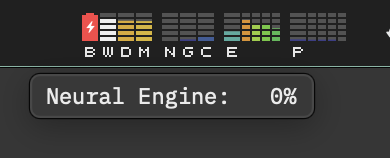
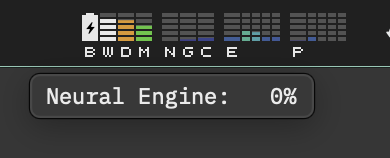
Update app pictures

diff --git a/devtopbars/index.html b/devtopbars/index.html
@@ -158,7 +158,7 @@
     <p class="section-sub">A real capture of the menu bar. After cpuTopBars' own bars come the plan's two limits, lettered 5 and 7, then one bar for each session.</p>
 
     <figure class="shot">
-      <img src="media/menubar-limits.png" width="410" height="64" alt="The devTopBars graph in the menu bar: battery, Wi-Fi, disk and memory bars lettered B W D M; Neural Engine, GPU and CPU lettered N G C; efficiency and performance core bars lettered E and P; then two limits bars lettered 5 and 7; then the session bars, each colored by its state">
+      <img src="media/menubar-limits.png" width="390" height="64" alt="The devTopBars graph in the menu bar: battery, Wi-Fi, disk and memory bars lettered B W D M; Neural Engine, GPU and CPU lettered N G C; efficiency and performance core bars lettered E and P; then two limits bars lettered 5 and 7; then the session bars, each colored by its state">
       <figcaption>The menu bar, with the limits and session bars at the right</figcaption>
     </figure>
 
@@ -175,18 +175,18 @@
     <div class="section-label">Shared <span class="accent">//</span> with cpuTopBars</div>
     <p class="section-sub">Rest the pointer on a bar for a second and its reading appears below the menu bar, as in cpuTopBars. Captured in cpuTopBars built from source.</p>
     <figure class="shot">
-      <img src="../cputopbars/media/settings-readings-processes2.png" width="1540" height="628" alt="Three panels side by side, captured in cpuTopBars built from source: cpuTopBars Settings with a live demo of the graph, refresh rate, number of processes and switches for each group of bars; a readings panel with uptime, battery, Wi-Fi, disk, memory, Neural Engine, GPU and CPU; and the menu listing the top processes by CPU with, for your own processes, their memory, then Activity Monitor, Freeze, Settings, How to Read the Menu Bar, Support Team Fox and About" loading="lazy">
+      <img src="../cputopbars/media/settings-readings-processes2.png" width="1792" height="768" alt="Three panels side by side: devTopBars Settings with a live demo of the graph, refresh rate, number of processes, switches for each group of bars and the usage bars' settings; a readings panel with uptime, battery, Wi-Fi, disk, memory, Neural Engine, GPU and CPU, then the AI limits and the AI sessions; and the menu listing your top processes by CPU with their memory, then Activity Monitor, Freeze, Settings, How to Read the Menu Bar and About, then the LAN IP (blacked out), WAN IP and VPN IP rows" loading="lazy">
       <figcaption>Settings, the readings panel and the process menu, as built from source</figcaption>
     </figure>
     <p class="section-sub" style="margin:-4px auto 34px;font-size:13.5px;">devTopBars works like cpuTopBars from the App Store, not like this build: its menu lists your own processes and counts the others in one row, the GPU shows its use without watts, and the Neural Engine shows as on or off. Its menu also adds the LAN, WAN and VPN rows.</p>
     <div class="hovers">
-      <figure class="hover"><img src="../cputopbars/media/hover-battery.png" width="258" height="79" alt="Battery label: charge and whether it is charging" loading="lazy"><figcaption>Battery</figcaption></figure>
+      <figure class="hover"><img src="../cputopbars/media/hover-battery.png" width="250" height="107" alt="Battery label: charge and whether it is charging" loading="lazy"><figcaption>Battery</figcaption></figure>
       <figure class="hover"><img src="../cputopbars/media/hover-wifi.png" width="274" height="191" alt="Wi-Fi label: signal, then IP address, router and MAC address (blacked out), security, channel, noise, transmit rate and PHY mode" loading="lazy"><figcaption>Wi-Fi</figcaption></figure>
-      <figure class="hover"><img src="../cputopbars/media/hover-disk.png" width="370" height="79" alt="Disk label: startup volume use with free and used space" loading="lazy"><figcaption>Disk</figcaption></figure>
-      <figure class="hover"><img src="../cputopbars/media/hover-memory.png" width="502" height="79" alt="Memory label: memory in use with free, used and swapped memory" loading="lazy"><figcaption>Memory</figcaption></figure>
-      <figure class="hover"><img src="../cputopbars/media/hover-gpu.png" width="175" height="79" alt="GPU label: the GPU's use" loading="lazy"><figcaption>GPU</figcaption></figure>
-      <figure class="hover"><img src="../cputopbars/media/hover-cpu.png" width="436" height="79" alt="CPU label: overall use with efficiency and performance cores' use" loading="lazy"><figcaption>CPU</figcaption></figure>
-      <figure class="hover"><img src="../cputopbars/media/hover-e-cores.png" width="204" height="135" alt="Efficiency cores label: each core's load" loading="lazy"><figcaption>Efficiency cores</figcaption></figure>
+      <figure class="hover"><img src="../cputopbars/media/hover-disk.png" width="222" height="121" alt="Disk label: startup volume use with free and used space" loading="lazy"><figcaption>Disk</figcaption></figure>
+      <figure class="hover"><img src="../cputopbars/media/hover-memory.png" width="220" height="135" alt="Memory label: memory in use with free, used and swapped memory" loading="lazy"><figcaption>Memory</figcaption></figure>
+      <figure class="hover"><img src="../cputopbars/media/hover-gpu.png" width="175" height="93" alt="GPU label: the GPU's use" loading="lazy"><figcaption>GPU</figcaption></figure>
+      <figure class="hover"><img src="../cputopbars/media/hover-cpu.png" width="208" height="107" alt="CPU label: overall use with efficiency and performance cores' use" loading="lazy"><figcaption>CPU</figcaption></figure>
+      <figure class="hover"><img src="../cputopbars/media/hover-e-cores.png" width="207" height="135" alt="Efficiency cores label: each core's load" loading="lazy"><figcaption>Efficiency cores</figcaption></figure>
       <figure class="hover"><img src="../cputopbars/media/hover-p-cores.png" width="240" height="135" alt="Performance cores label: each core's load" loading="lazy"><figcaption>Performance cores</figcaption></figure>
     </div>
   </section>

diff --git a/cputopbars/index.html b/cputopbars/index.html
@@ -155,12 +155,12 @@
     <p class="section-sub">Real captures on a dark menu bar. Each bar has its letter under it: B battery, W Wi-Fi, D disk, M memory, N Neural Engine, G GPU, C CPU, E and P the efficiency and performance cores.</p>
 
     <figure class="shot bar">
-      <img src="media/menubar.png" width="416" height="34" alt="The cpuTopBars graph in the macOS menu bar, beside the clock: a red battery bar, full, with its bolt (at 100%, on battery), Wi-Fi, disk and memory bars, then Neural Engine, GPU and CPU bars, then efficiency-core and performance-core bars, each lettered underneath">
+      <img src="media/menubar.png" width="412" height="34" alt="The cpuTopBars graph in the macOS menu bar, beside the clock: a battery bar outlined in white, full, with a black bolt (at 100%, plugged in and charged), Wi-Fi, disk and memory bars, then Neural Engine, GPU and CPU bars, then efficiency-core and performance-core bars, each lettered underneath">
       <figcaption>Hiding in the menu bar</figcaption>
     </figure>
 
     <figure class="shot">
-      <img src="media/settings-readings-processes.png" width="1540" height="628" alt="Three panels side by side: cpuTopBars Settings with a live demo of the graph, refresh rate, number of processes and switches for each group of bars; a readings panel with uptime, battery, Wi-Fi, disk, memory, Neural Engine, GPU and CPU; and the menu listing the top processes by CPU with, for your own processes, their memory, then Activity Monitor, Freeze, Settings, How to Read the Menu Bar, Support Team Fox and About" loading="lazy">
+      <img src="media/settings-readings-processes.png" width="1533" height="592" alt="Three panels side by side: cpuTopBars Settings with a live demo of the graph, refresh rate, number of processes and switches for each group of bars; a readings panel with uptime, battery, Wi-Fi, disk, memory, Neural Engine, GPU and CPU; and the menu listing the top processes by CPU with, for your own processes, their memory, then Activity Monitor, Freeze, Settings, How to Read the Menu Bar, Support Team Fox and About" loading="lazy">
       <figcaption>Settings, the readings panel and the process menu, as built from source</figcaption>
     </figure>
   </section>
@@ -169,14 +169,14 @@
     <div class="section-label">Hover <span class="accent">//</span> for the numbers</div>
     <p class="section-sub">Rest the pointer on a bar for a second and its reading appears below the menu bar.</p>
     <div class="hovers">
-      <figure class="hover"><img src="media/hover-battery.png" width="258" height="79" alt="Battery label: charge and whether it is charging" loading="lazy"><figcaption>Battery</figcaption></figure>
+      <figure class="hover"><img src="media/hover-battery.png" width="250" height="107" alt="Battery label: charge and whether it is charging" loading="lazy"><figcaption>Battery</figcaption></figure>
       <figure class="hover"><img src="media/hover-wifi.png" width="274" height="191" alt="Wi-Fi label: signal, then IP address, router and MAC address (blacked out), security, channel, noise, transmit rate and PHY mode" loading="lazy"><figcaption>Wi-Fi</figcaption></figure>
-      <figure class="hover"><img src="media/hover-disk.png" width="370" height="79" alt="Disk label: startup volume use with free and used space" loading="lazy"><figcaption>Disk</figcaption></figure>
-      <figure class="hover"><img src="media/hover-memory.png" width="502" height="79" alt="Memory label: memory in use with free, used and swapped memory" loading="lazy"><figcaption>Memory</figcaption></figure>
+      <figure class="hover"><img src="media/hover-disk.png" width="222" height="121" alt="Disk label: startup volume use with free and used space" loading="lazy"><figcaption>Disk</figcaption></figure>
+      <figure class="hover"><img src="media/hover-memory.png" width="220" height="135" alt="Memory label: memory in use with free, used and swapped memory" loading="lazy"><figcaption>Memory</figcaption></figure>
       <figure class="hover"><img src="media/hover-neural-engine.png" width="195" height="79" alt="Neural Engine label: its busy share, as built from source" loading="lazy"><figcaption>Neural Engine, built from source</figcaption></figure>
-      <figure class="hover"><img src="media/hover-gpu.png" width="175" height="79" alt="GPU label: the GPU's use" loading="lazy"><figcaption>GPU</figcaption></figure>
-      <figure class="hover"><img src="media/hover-cpu.png" width="436" height="79" alt="CPU label: overall use with efficiency and performance cores' use" loading="lazy"><figcaption>CPU</figcaption></figure>
-      <figure class="hover"><img src="media/hover-e-cores.png" width="204" height="135" alt="Efficiency cores label: each core's load" loading="lazy"><figcaption>Efficiency cores</figcaption></figure>
+      <figure class="hover"><img src="media/hover-gpu.png" width="175" height="93" alt="GPU label: the GPU's use" loading="lazy"><figcaption>GPU</figcaption></figure>
+      <figure class="hover"><img src="media/hover-cpu.png" width="208" height="107" alt="CPU label: overall use with efficiency and performance cores' use" loading="lazy"><figcaption>CPU</figcaption></figure>
+      <figure class="hover"><img src="media/hover-e-cores.png" width="207" height="135" alt="Efficiency cores label: each core's load" loading="lazy"><figcaption>Efficiency cores</figcaption></figure>
       <figure class="hover"><img src="media/hover-p-cores.png" width="240" height="135" alt="Performance cores label: each core's load" loading="lazy"><figcaption>Performance cores</figcaption></figure>
     </div>
   </section>
